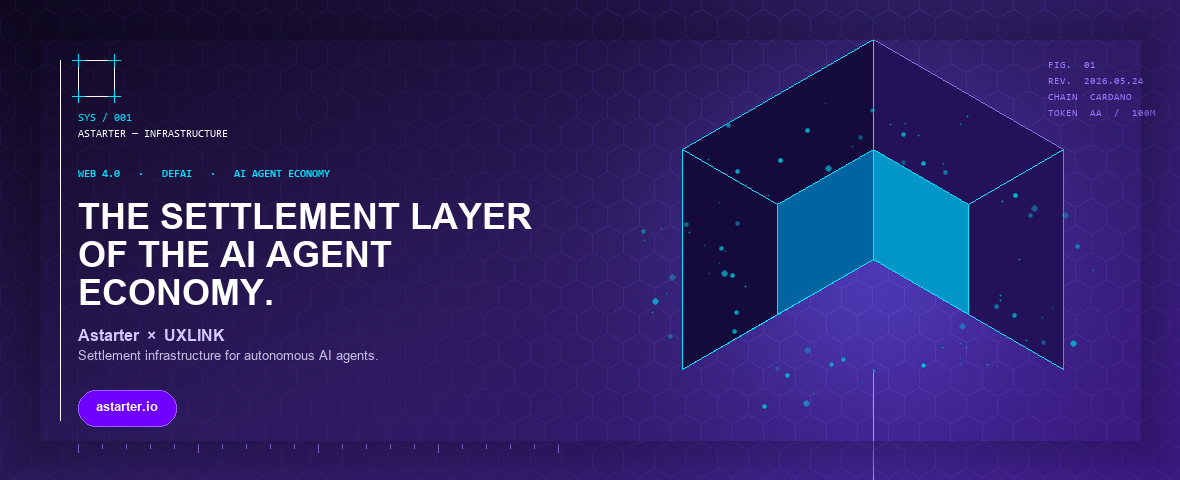
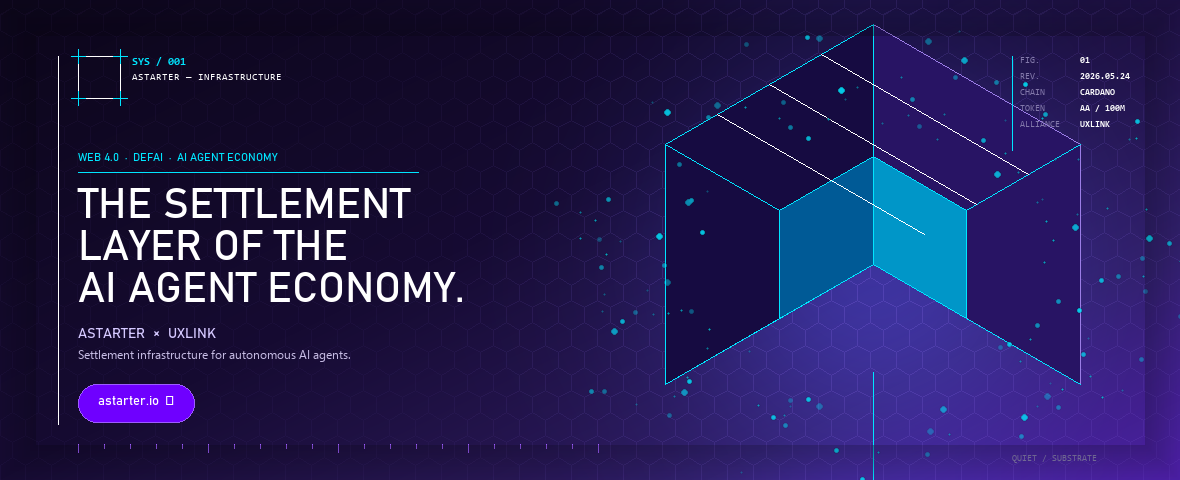
v2 pitch-grade: 4 image variants, one-pager PDF, media FAQ, press kit, Bahnschrift typography upgrade
Visual system v2:
- Hero / Twitter / Square / Vertical PNG variants (Quiet Substrate)
- Bahnschrift (DIN-class) typography replacing Arial across all designed assets
- Sharper composition, dedicated spec-sheet meta layer, refined glow + lattice

New operational docs:
- 16-media-faq.md (15 anticipated journalist Q&As + bridge phrases)
- 17-press-kit-boilerplate.md (boilerplate, bios, factbox, quotables, contacts)
- astarter-one-pager.pdf (A4 single-page executive fact sheet, ReportLab)

Refreshed:
- PPTX deck with Bahnschrift typography
- README with full distribution map

diff --git a/README.md b/README.md
@@ -1,55 +1,81 @@
 # project-content
 
-Editorial + PR content for Astarter Web4 AI Agent project.
+Editorial + PR content for **Astarter** Web4 AI Agent project.
 
-## Latest delivery — `astarter-cointime-2026-05-24/`
+## Latest delivery — `astarter-cointime-2026-05-24/` *(v2 — pitch-grade)*
 
-| # | File | Type | Purpose |
+### Editorial copy
+
+| # | File | Format | Use |
 |---|---|---|---|
-| 01 | `01-long-form-feature.md` | Long-form EN (~1,850w) | Cointime Insight format |
-| 02 | `02-news-flash.md` | News flash EN (~245w) | Cointime flash format |
-| 03 | `03-source-dossier.md` | Citations | Every claim → URL → tier |
-| 04 | `04-analyst-notes-for-gk.md` | Notes | Findings + open items |
-| 05 | `05-cn-long-form.md` | Long-form CN | PANews / BlockBeats voice |
-| 06 | `06-cn-news-flash.md` | News flash CN | Flash format CN |
-| 07 | `07-x-thread-en.md` | X/Twitter EN | 10-tweet thread |
-| 08 | `08-x-thread-cn.md` | X/Twitter CN | 10-tweet thread |
-| 09 | `09-telegram-en.md` | Telegram EN | Channel post |
-| 10 | `10-telegram-cn.md` | Telegram CN | Channel post |
-| 11 | `11-pitch-email-en.md` | Email EN | To Nicole / Cointime |
-| 12 | `12-pitch-email-cn.md` | Email CN | To Nicole / Cointime |
-| 13 | `13-panews-syndication.md` | Syndication EN | Data-heavy PANews variant |
-| 14 | `14-press-release.md` | Press release EN | Newswire format |
-| 15 | `15-headlines-bank.md` | Headlines bank | 20 candidates EN+CN |
-| — | `design-philosophy.md` | Design philosophy | *Quiet Substrate* manifesto |
-| — | `astarter-cointime-package.docx` | DOCX | Full package for GK |
-| — | `astarter-cointime-package.pdf` | PDF | Same package, preview-friendly |
-| — | `astarter-pitch-deck.pptx` | PPTX | 10-slide internal deck |
-| — | `astarter-hero-1180x480.png` | Image | Hero banner |
+| 01 | `01-long-form-feature.md` | Long-form EN (~1,850w) | Cointime Insight |
+| 02 | `02-news-flash.md` | News flash EN (~245w) | Cointime flash |
+| 05 | `05-cn-long-form.md` | Long-form CN | PANews / BlockBeats |
+| 06 | `06-cn-news-flash.md` | News flash CN | CN flash |
+| 13 | `13-panews-syndication.md` | Syndication EN | Data-heavy variant |
+| 14 | `14-press-release.md` | Press release EN | Newswire |
 
-## Workflow
+### Social copy
 
-1. GK reviews `.docx` / `.pdf` / `.pptx`, answers the 5 open items in `04-analyst-notes-for-gk.md`
-2. Drafts updated based on GK feedback (commit per revision)
-3. Final approved versions tagged `v1.0-cointime-ready`
-4. Distribution:
-   - **Long-form** → @Cointime curated channel
-   - **News flash** → Cointime flash-news pipeline
-   - **PANews syndication variant** → PANews / BlockBeats / TechFlow / 深潮
-   - **Press release** → wire services
-   - **X thread** → @AstarterDefiHub (composite hero image first)
-   - **Telegram** → Astarter official TG (composite hero image first)
+| # | File | Channel |
+|---|---|---|
+| 07 | `07-x-thread-en.md` | X / Twitter EN (10 tweets) |
+| 08 | `08-x-thread-cn.md` | X / Twitter CN (10 tweets) |
+| 09 | `09-telegram-en.md` | Telegram EN |
+| 10 | `10-telegram-cn.md` | Telegram CN |
+| 11 | `11-pitch-email-en.md` | Email to Nicole EN |
+| 12 | `12-pitch-email-cn.md` | Email to Nicole CN |
+
+### Operational docs
+
+| # | File | Purpose |
+|---|---|---|
+| 03 | `03-source-dossier.md` | Every claim → URL → tier (CLAUDE.md spec) |
+| 04 | `04-analyst-notes-for-gk.md` | Findings + 5 open items for GK |
+| 15 | `15-headlines-bank.md` | 25 ranked headlines EN+CN |
+| 16 | `16-media-faq.md` | 15 anticipated journalist Q&As + bridge phrases |
+| 17 | `17-press-kit-boilerplate.md` | Short/medium/long boilerplate, bios, factbox, contacts |
+
+### Designed deliverables
+
+| File | Format | Purpose |
+|---|---|---|
+| `design-philosophy.md` | Manifesto | *Quiet Substrate* aesthetic foundation |
+| `astarter-cointime-package.docx` | DOCX | Full GK review package |
+| `astarter-cointime-package.pdf` | PDF | Same, preview-friendly |
+| `astarter-pitch-deck.pptx` | PPTX | 10-slide deck (Bahnschrift / consulting-grade) |
+| `astarter-one-pager.pdf` | PDF (A4) | Single-page executive fact sheet |
+| `astarter-hero-1180x480.png` | PNG | Cointime article banner |
+| `astarter-twitter-1200x628.png` | PNG | Twitter / X card |
+| `astarter-square-1080x1080.png` | PNG | Instagram / LinkedIn feed |
+| `astarter-vertical-1080x1920.png` | PNG | Story / Reels / TikTok |
+
+## Distribution map
+
+| Channel | Asset bundle |
+|---|---|
+| **Cointime Insight** | `01` + hero PNG |
+| **Cointime Flash** | `02` |
+| **PANews / BlockBeats / TechFlow** | `13` + hero PNG |
+| **Press wire** | `14` + one-pager PDF |
+| **@AstarterDefiHub X** | `07` + twitter card on tweet 1 |
+| **Astarter TG channel** | `09` + hero PNG |
+| **Instagram / LinkedIn** | square PNG + 1-line caption from `15` |
+| **Story / Reels / TikTok** | vertical PNG |
+| **Inbound press queries** | `16` (FAQ) + `17` (boilerplate) + one-pager PDF |
+| **Conference / partner handouts** | one-pager PDF + pitch deck PPTX |
+| **GK internal review** | docx + pdf + pptx |
 
 ## Editorial discipline (per `C:\Users\rog\CLAUDE.md`)
 
-- Primary sources only. Affiliate sites are starting points, never proof.
-- Two-source minimum for any factual claim. Single-source claims marked UNVERIFIED.
+- Primary sources only. Affiliate sites = starting points, never proof.
+- Two-source minimum for any factual claim; single-source claims marked UNVERIFIED.
 - Exact quotes for any rule, number, or threshold.
 - Every fact has `accessed_at_utc` and a tier.
 - Contradictions logged, never silently resolved.
 
-## Asset workflow notes
+## Visual system
 
-- Hero PNG has a clean reticle space top-left — **composite the real Astarter logo in Figma** before publishing. AI cannot render brand-specific marks reliably.
-- PPTX uses the same *Quiet Substrate* palette (DEEP `#0F0820`, MIDV `#2D1B5F`, VIOLET `#6F00FF`, CYAN `#00E5FF`) so all assets are visually unified.
-- PDF is generated from the .docx via `docx2pdf` — re-run `pip install docx2pdf && python -c "from docx2pdf import convert; convert('X.docx','X.pdf')"` after any edit.
+All designed deliverables share one design philosophy — **Quiet Substrate** — applied across PDF, PPTX, and image variants. Palette: `#0F0820` deep, `#2D1B5F` mid-violet, `#6F00FF` violet, `#00E5FF` cyan signal. Typography: Bahnschrift (DIN-class) for display, Segoe UI for body, Consolas for spec-sheet meta.
+
+**Asset workflow note:** every PNG has a clean reticle space top-left intended for compositing the real Astarter logo in Figma before publishing. AI generation cannot render brand-specific marks reliably and must not be trusted to do so.

diff --git a/astarter-cointime-2026-05-24/17-press-kit-boilerplate.md b/astarter-cointime-2026-05-24/17-press-kit-boilerplate.md
@@ -1,0 +1,102 @@
+# Press Kit — Boilerplate, Bios, Factbox, Contacts
+
+**Internal use.** Drop-in copy for press releases, partner announcements, third-party articles, and conference materials. All content vetted against primary-source dossier; where speaker bios are not yet confirmed by GK, fields are marked **[CONFIRM WITH GK]** for fill-in before external use.
+
+---
+
+## I. Standard Boilerplate
+
+### Short (≤50 words) — for press release footer
+*Astarter is a Cardano-based decentralized finance infrastructure platform building the settlement layer for the autonomous AI Agent economy. Backed by EMURGO since its 2021 launch, the platform's four-product stack combines AI Agent, DePIN, and DeFAI primitives. More at astarter.io.*
+
+### Medium (≈100 words) — for partner co-marketing
+*Astarter is a Cardano-native decentralized finance infrastructure platform repositioning its four-product stack — Launchpad, DEX, Money Market, and Tech Service Platform — as the settlement substrate for the emerging Web 4.0 autonomous AI Agent economy. Launched in 2021 as a joint venture backed by EMURGO, a founding entity of the Cardano protocol, Astarter is one of the first projects to publicly commit to integrating AI Agent, DePIN, and DeFAI primitives under a single coordinated stack. The platform's native AA token, capped at a fixed maximum supply of 100 million units, functions as the unit of account, payment medium, governance instrument, and collateral primitive across the system. More at astarter.io.*
+
+### Long (≈200 words) — for media kits, sponsor pages, conference programs
+*Astarter is a Cardano-native infrastructure platform building the settlement layer for the autonomous AI Agent economy. Originally launched in September 2021 as a joint venture backed by EMURGO — one of the three founding entities of the Cardano protocol — the platform has spent more than two years developing a four-product DeFi stack covering Launchpad and Launchpool issuance, a decentralized exchange, a collateralized money market, and a technical service platform for ecosystem builders. In 2025, Astarter formally repositioned that stack as the financial substrate for an emerging category at the intersection of decentralized finance and autonomous AI execution, known as DeFAI. The system is anchored economically by the AA token, capped at a fixed maximum supply of 100,000,000 units, with utility spanning agent-to-agent settlement, DePIN compute payments, protocol governance, and collateral for agent-issued credit. On May 15, 2026, Astarter announced its strategic alliance with social-growth network UXLINK, marking the first publicly coordinated stack to integrate AI Agent, DePIN, and DeFAI primitives under a single operational model. More at astarter.io | X: @AstarterDefiHub.*
+
+---
+
+## II. Factbox
+
+| Field | Value |
+|---|---|
+| **Project name** | Astarter |
+| **Token ticker** | AA |
+| **Token max supply** | 100,000,000 AA (fixed) |
+| **Native chain** | Cardano (multi-chain expansion signaled) |
+| **Founded** | September 2021 |
+| **Backer** | EMURGO (Cardano founding entity) |
+| **Headquarters** | [CONFIRM WITH GK — Singapore or BVI per public records] |
+| **Core products** | Launchpad / Launchpool, DEX, Money Market, Tech Service Platform |
+| **Category positioning** | DeFAI · AI Agent infrastructure · DePIN |
+| **Strategic alliance (most recent)** | UXLINK (announced May 15, 2026) |
+| **Website** | astarter.io |
+| **X / Twitter** | @AstarterDefiHub |
+| **Medium** | medium.com/@AstarterDefiHub |
+| **Docs** | astarter-1.gitbook.io/welcome-to-astarter/ |
+
+---
+
+## III. Spokesperson Bios
+
+### Spokesperson 1 — Chris Tang, Chief Executive Officer
+**[CONFIRM WITH GK before external use — verify current title and approve copy]**
+
+*Chris Tang is the Chief Executive Officer of Astarter, the Cardano-native infrastructure platform building the settlement layer for the autonomous AI Agent economy. He has led the project since its 2021 launch as an EMURGO joint venture and currently directs the platform's repositioning across the AI Agent, DePIN, and DeFAI categories.*
+
+### Spokesperson 2 — [Name TBD], [Title TBD]
+**[CONFIRM WITH GK — supply name, title, 50-word bio]**
+
+### Spokesperson 3 — [Name TBD], [Title TBD]
+**[CONFIRM WITH GK — supply name, title, 50-word bio]**
+
+---
+
+## IV. Approved Quotables
+
+For inclusion in press releases, partner co-marketing, or third-party articles. All quotes attributed to **Astarter** as the corporate voice unless an individual spokesperson is supplied.
+
+> *"DeFi's next bottleneck isn't liquidity — it's settlement for autonomous agents."*
+
+> *"Most projects in the agent economy cover one of three layers. We're building all three: AI Agent, DePIN, and DeFAI under a single stack."*
+
+> *"The winners of the agent economy won't be the loudest projects. They'll be the ones whose infrastructure is already standing when the agents arrive."*
+
+> *"Agents don't need better models. They need better rails. That's what we're building."*
+
+> *"The UXLINK alliance is the first credible attempt the category has seen to pair an execution layer with a distribution layer in the same partnership."*
+
+---
+
+## V. Media Contacts
+
+| Channel | Contact | When to use |
+|---|---|---|
+| **Primary press** | [[email redacted] — CONFIRM WITH GK] | All journalist queries, interview requests |
+| **Partnerships** | [[email redacted] — CONFIRM WITH GK] | Inbound BD, integration requests |
+| **Community / general** | @AstarterDefiHub on X | Routine community engagement |
+| **Editorial submissions** | Zakky [email TBD] | Cointime / PANews / BlockBeats / TechFlow coordination |
+
+---
+
+## VI. Asset Index
+
+All assets in this package are licensed for editorial use by approved media partners. No modifications beyond cropping and proportional scaling.
+
+| Asset | Dimensions | File |
+|---|---|---|
+| Hero banner | 1180 × 480 | `astarter-hero-1180x480.png` |
+| Twitter card | 1200 × 628 | `astarter-twitter-1200x628.png` |
+| Square (IG / LinkedIn) | 1080 × 1080 | `astarter-square-1080x1080.png` |
+| Vertical (Story / Reels) | 1080 × 1920 | `astarter-vertical-1080x1920.png` |
+| Full media package | — | `astarter-cointime-package.pdf` |
+| Pitch deck | 10 slides | `astarter-pitch-deck.pptx` |
+
+---
+
+## VII. Editorial Disclaimers
+
+For inclusion at the foot of any contributed editorial:
+
+*This article is a contributed feature published in collaboration with Astarter. Editorial perspectives reflect the analytical framing of the contributing author. Material claims regarding tokenomics, listing schedules, and product roadmaps are subject to formal disclosure via Astarter's official channels. Readers should not treat any forward-looking statements as investment advice.*

diff --git a/astarter-cointime-2026-05-24/16-media-faq.md b/astarter-cointime-2026-05-24/16-media-faq.md
@@ -1,0 +1,86 @@
+# Media FAQ — Anticipated Journalist Questions
+
+**Internal use.** Drafted answers for spokesperson use across interviews, AMAs, and follow-up press queries. Every answer stays inside the message frame established in the Cointime piece. Where data is not public, the answer redirects rather than fabricates.
+
+---
+
+## I. Project & Positioning
+
+### Q1. In one sentence, what is Astarter?
+Astarter is a Cardano-native infrastructure platform building the settlement layer for the autonomous AI Agent economy — combining AI Agent, DePIN, and DeFAI primitives under a single coordinated stack.
+
+### Q2. Why are you repositioning a DeFi project into an AI Agent infrastructure narrative? Isn't that just chasing a trend?
+The four-product stack — Launchpad, DEX, Money Market, Tech Service Platform — has been live since 2021. Nothing about the technology is being repackaged for a narrative. What changed is the realization that the same primitives that power human-facing DeFi are exactly what autonomous agents will need to operate as financial actors. We're not pivoting; we're recognizing that the layer we already built has a much larger addressable market than DeFi alone.
+
+### Q3. How is this different from Olas, Virtuals, Fetch.ai, or Giza?
+Each of those projects has chosen a different anchor point in the agent stack. Virtuals optimizes for agent issuance velocity. Olas focuses on agent coordination. Fetch.ai operates one of the largest live agent deployment surfaces. Astarter is staking out the financial settlement layer underneath all of them — the unit of account, the credit primitives, the collateral plumbing that lets an agent function as an economic actor rather than just a software process.
+
+### Q4. What does "settlement layer" actually mean in this context?
+When Agent A pays Agent B for a service, the transaction has to clear deterministically — no chargebacks, no human arbitration, no improvisation when something breaks. Existing DeFi was built assuming a person can step in. Agents can't. Settlement infrastructure for agents means a set of financial primitives engineered from the ground up for deterministic machine-to-machine value transfer.
+
+---
+
+## II. The UXLINK Alliance
+
+### Q5. Why UXLINK, specifically?
+UXLINK brings one of the larger active social-graph distribution surfaces in Web3. Astarter brings the financial primitives. Most agent-economy projects pair an execution layer with another execution layer; we're pairing execution with distribution. That's the structural read on why this partnership matters more than its press footprint might suggest.
+
+### Q6. Is this a financial partnership? Token swap? Joint venture?
+This is a strategic alliance focused on integrated product development across our respective layers. We're not disclosing financial terms at this time.
+
+### Q7. When does the integrated product ship?
+We've indicated functional beta of the DeFAI execution layer within the next two quarters. More specifics will come in subsequent updates.
+
+---
+
+## III. Token & Tokenomics
+
+### Q8. What is the AA token's max supply and current circulation?
+Maximum supply is 100,000,000 AA, hard-capped. The AA1-to-AA2 transition completed in November 2025 cleared the foundational tokenomics work ahead of market launch. Specific circulating-supply figures and listing schedules will be released alongside the formal tokenomics publication.
+
+### Q9. When is the TGE?
+We haven't disclosed a date. We will when we're ready to commit to one publicly.
+
+### Q10. Which exchanges?
+Listing venues will be announced alongside the tokenomics publication. We don't comment on specific listings before they're confirmed.
+
+### Q11. What does AA actually do across the stack?
+Four roles, simultaneously: unit of account for agent-to-agent settlement; payment medium for DePIN compute resources accessed by agents; governance instrument for protocol parameters; and collateral primitive within the Money Market for agent-issued credit. The token is the economic anchor of the entire system, not a single-purpose utility.
+
+---
+
+## IV. Technical & Roadmap
+
+### Q12. You're on Cardano today. Are you going multi-chain?
+Yes. DePIN and agent economies are inherently cross-chain — an execution layer that doesn't follow the actual flow of activity will be structurally limited. We've signaled multi-chain expansion as a near-term priority. Specific target chains will be announced as deployments are ready.
+
+### Q13. What's the audit posture? Have the contracts been audited?
+We'll publish current audit status alongside the tokenomics release. For ongoing platform security, we follow standard production-grade audit cadence with our infrastructure partners.
+
+### Q14. Where do I see actual agent traffic on Astarter today?
+The current production stack serves DeFi traffic. The DeFAI execution layer — purpose-built for agent traffic — is the next major release, currently in pre-beta development. We'll share metrics once external production deployments are live.
+
+---
+
+## V. Risk & Skepticism
+
+### Q15. Skeptical take — your TVL is small and your token isn't listed. Why should anyone care about this announcement?
+That's a fair starting point. Two responses. First, this announcement is a thesis and an alliance, not a victory lap; we're explicit that the proof points come from the next two quarters, not from the present moment. Second, the projects that captured durable share in every prior cycle weren't the ones with the loudest current numbers — they were the ones whose infrastructure was already standing when the demand arrived. We're choosing to build the rails ahead of the traffic. If we're right about the timing, that's the right order to do it in. If we're wrong, no amount of TVL today would have changed the outcome.
+
+---
+
+## VI. Disallowed Topics
+
+- **Price commentary.** We do not comment on price, expected price, or market timing.
+- **Comparative claims against competitors as "better."** We name peers as context, never as targets.
+- **Speculation on third-party roadmaps.** We answer for Astarter only.
+- **Internal financials, runway, or funding round size.** Not for media disclosure.
+
+---
+
+## VII. Bridge Phrases (for steering off-message questions)
+
+- *"The more interesting structural question there is..."*
+- *"That's downstream of the actual thesis, which is..."*
+- *"We'll have more to say on that when [milestone]. What I can talk about now is..."*
+- *"That's a question for [external party]. From our side..."*